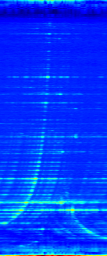
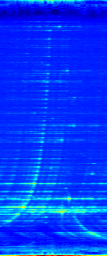
Made changes to get more cfg files

diff --git a/datasets/kradar_detection_v1_0.py b/datasets/kradar_detection_v1_0.py
@@ -634,9 +634,9 @@ class KRadarDetection_v1_0(Dataset):
     ### 4D DRAE Radar Tensor (i.e., Tesseract) ###
 
     ### Lidar Point Cloud ###
-    # def show_lidar_point_cloud(self, dict_item, bboxes=None, \
-    #         roi_x=[0, 100], roi_y=[-50, 50], roi_z=[-10, 10]):
-    #     func_show_lidar_point_cloud(self, dict_item, bboxes, roi_x, roi_y, roi_z)
+    def show_lidar_point_cloud(self, dict_item, bboxes=None, \
+            roi_x=[0, 100], roi_y=[-50, 50], roi_z=[-10, 10]):
+        func_show_lidar_point_cloud(self, dict_item, bboxes, roi_x, roi_y, roi_z)
 
     ### Radar Cube ### (TBD: Update to main_vis.py version)
     # To use radar cube functions, GET_ITEM['rdr_cube'] = True

diff --git a/main_test_0.py b/main_test_0.py
@@ -7,14 +7,14 @@
 import os
 os.environ['CUDA_VISIBLE_DEVICES'] = '0'
 
-SAMPLE_INDICES = [10,11,12,30,70,95,150]
+SAMPLE_INDICES = [10,11,12,30,70,95]
 CONFIDENCE_THR = 0.5
 
 from pipelines.pipeline_detection_v1_0 import PipelineDetection_v1_0
 
 if __name__ == '__main__':
     PATH_CONFIG = './configs/cfg_RTNH_wide.yml'
-    PATH_MODEL = './pretrained/RTNH_wide_10.pt'
+    PATH_MODEL = '/media/fraunhofer/Volume/Ashwin/KAIST Dataset/RTNH_wide_10.pt'
 
     pline = PipelineDetection_v1_0(PATH_CONFIG, mode='vis')
     pline.load_dict_model(PATH_MODEL)

diff --git a/datasets/kradar_detection_v1_1.py b/datasets/kradar_detection_v1_1.py
@@ -1139,7 +1139,9 @@ if __name__ == '__main__':
     import yaml
     from easydict import EasyDict
 
-    path_cfg = './configs/sparse_rdr_data_generation/cfg_gen_wider_rtnh_1p.yml'
+    # path_cfg = './configs/sparse_rdr_data_generation/cfg_gen_wider_rtnh_1p.yml'
+    path_cfg = './configs/sparse_rdr_data_generation/cfg_gen_wider_rtnh_5p.yml'
+    # path_cfg = './configs/sparse_rdr_data_generation/cfg_gen_wider_rtnh_10p.yml'
 
     f = open(path_cfg, 'r')
     try:

diff --git a/uis/ui_vis.py b/uis/ui_vis.py
@@ -46,7 +46,7 @@ def show_image_popup(cv_img, window_title='K-Radar Visualization'):
 
     rgb_img = cv2.cvtColor(cv_img, cv2.COLOR_BGR2RGB)
     h, w, ch = rgb_img.shape
-    qimg = QImage(rgb_img.data, w, h, ch * w, QImage.Format_RGB888)
+    qimg = QImage(rgb_img.data, w, h, ch * w, QImage.Format_RGB888).copy()
 
     dialog = QDialog()
     dialog.setWindowTitle(window_title)

diff --git a/utils/util_dataset.py b/utils/util_dataset.py
@@ -44,7 +44,7 @@ def show_image_popup(cv_img, window_title='K-Radar Visualization'):
 
     rgb_img = cv2.cvtColor(cv_img, cv2.COLOR_BGR2RGB)
     h, w, ch = rgb_img.shape
-    qimg = QImage(rgb_img.data, w, h, ch * w, QImage.Format_RGB888)
+    qimg = QImage(rgb_img.data, w, h, ch * w, QImage.Format_RGB888).copy()
 
     dialog = QDialog()
     dialog.setWindowTitle(window_title)

diff --git a/README.md b/README.md
@@ -1,0 +1,92 @@
+# K-Radar (fork — modern pip/Python 3.9 environment)
+
+This fork exists because the original repo's environment (conda, Python 3.8.13, torch
+1.11.0+cu113) is no longer reproducible as-is: several pinned dependency versions have since
+been pulled from PyPI, and parts of the code have drifted ahead of the pinned versions (removed
+torch APIs, torchvision APIs that didn't exist yet, a few outright typos). This fork documents a
+working pip-only environment on modern hardware/drivers, and patches every bug that showed up
+getting there.
+
+**Start here:** [`docs/ENVIRONMENT_SETUP.md`](docs/ENVIRONMENT_SETUP.md) — full explanation of
+what broke and why, the verified working dependency versions, and every code patch with a diff.
+`requirements.txt` in this fork is already updated to match.
+
+## What's confirmed working in this fork
+
+- `main_vis.py` GUI — Sensor Visualization tab: **Camera Front Vis**, **Radar Tensor Vis**
+  (range-azimuth, both polar and Cartesian BEV), **Lidar Point Cloud Vis** — all popping up as
+  native windows (see `ENVIRONMENT_SETUP.md` §4.6 for the PyQt5/OpenCV Qt-collision fix that
+  made this possible)
+- `main_test_0.py` — RTNH_wide pretrained inference, GT (gray) vs. predicted (colored) boxes in
+  an Open3D viewer
+- `datasets/kradar_detection_v1_1.py` — sparse radar cube generation from raw `radar_zyx_cube`,
+  at arbitrary quantile densities (see below)
+
+Not yet attempted in this fork: odometry visualization, tracking, sensor fusion (ASF)
+train/eval, auto-labeling. See `ENVIRONMENT_SETUP.md` and the original `docs/` for what's
+realistically runnable vs. what points to external/unreleased repos.
+
+## Dataset layout — where everything actually lives
+
+This fork was set up and tested against **sequence 1 only** (not the full 58-sequence, ~15TB
+release). Three separate things live in three separate places — worth keeping straight, since
+they're easy to conflate:
+
+```
+<your data root>/
+├── Scenes/
+│   └── 1/                          ← from the official sequence zip (e.g. `1.zip`)
+│       └── 1/
+│           ├── cam-front/, cam-left/, cam-rear/, cam-right/
+│           ├── info_calib/
+│           ├── info_label/         ← object detection ground truth (per-frame .txt, GT boxes)
+│           ├── os1-128/, os2-64/   ← raw LiDAR point clouds
+│           ├── radar_tesseract/    ← raw 4D (Doppler/Range/Azimuth/Elevation) radar tensor
+│           ├── radar_zyx_cube/     ← same data, converted to dense Cartesian — the INPUT for
+│           │                         all sparse-radar generation below
+│           ├── sparse_cube/, sparse_cube_30/
+│           └── description.txt
+│
+├── sparse_radar_tensor_wide_range-001/    ← pre-made sparse radar data, downloaded separately
+│   └── sparse_radar_tensor_wide_range/       from KAIST's Google Drive (docs/preprocessing.md)
+│       └── rtnh_wider_1p_1/1/                — this is what main_test_0.py / cfg_RTNH_wide.yml
+│           └── sprdr_00033.npy, ...            point `rdr_sparse.dir` at for pretrained inference
+│
+├── my_sparse_gen/                         ← self-generated sparse radar data, produced locally
+│   ├── rtnh_wider_1p_1/1/                    by datasets/kradar_detection_v1_1.py, from this
+│   │   └── sprdr_00033.npy, ...              fork's own radar_zyx_cube — NOT downloaded
+│   ├── rtnh_wider_5p_1/1/                    (QUANTILE_RATE: 0.01 / 0.05 / 0.10 respectively —
+│   │   └── sprdr_00033.npy, ...              see configs/sparse_rdr_data_generation/)
+│   └── rtnh_wider_10p_1/1/
+│       └── sprdr_00033.npy, ...
+│
+└── RTNH_wide_10.pt                        ← pretrained checkpoint, downloaded separately
+                                               (Google Drive link in ENVIRONMENT_SETUP.md)
+```
+
+Ground truth, specifically — there are two unrelated kinds, don't confuse them:
+
+- **Object detection GT** (car/pedestrian boxes) → `Scenes/1/1/info_label/*.txt`, used
+  everywhere in this fork so far (Camera/Radar/Lidar Vis, RTNH's gray boxes)
+- **Odometry GT** (ego-vehicle trajectory, KITTI-format 3×4 pose matrices from LeGO-LOAM) →
+  ships inside the repo itself at `resources/odometry/gt/gt_01.txt`, **not** downloaded, **not**
+  in `Scenes` — a completely separate thing, not yet used in this fork
+- A third kind, the crowd-refined "v2.0"/"v2.1" relabeling, is deliberately **not** used in this
+  fork (`cfg_RTNH_wide.yml`'s `label_version` was switched from `v2_0` to `v1_0` specifically to
+  avoid needing it — see `ENVIRONMENT_SETUP.md`)
+
+### Config → path mapping (which config points where)
+
+| Config | Key(s) | Points at |
+|---|---|---|
+| `configs/cfg_GUI_TOOL.yml` | `DATASET.DIR.LIST_DIR` | `Scenes/1` |
+| `configs/cfg_RTNH_wide.yml` | `DATASET.path_data.list_dir_kradar` | `Scenes/1` |
+| `configs/cfg_RTNH_wide.yml` | `DATASET.rdr_sparse.dir` | `sparse_radar_tensor_wide_range-001/.../rtnh_wider_1p_1` |
+| `configs/sparse_rdr_data_generation/cfg_gen_wider_rtnh_*p.yml` | `DATASET.DIR.LIST_DIR` | `Scenes/1` |
+| `configs/sparse_rdr_data_generation/cfg_gen_wider_rtnh_*p.yml` | `SPARSE_DATA.SAVE_FOLDER` | `my_sparse_gen` |
+| `main_test_0.py` | `PATH_MODEL` | `RTNH_wide_10.pt` |
+
+## Original K-Radar documentation
+
+Everything else — dataset background, benchmark details, the full README with paper links and
+demo videos — is unchanged from upstream. See [`readme.md`](readme.md) and [`docs/`](docs/).
